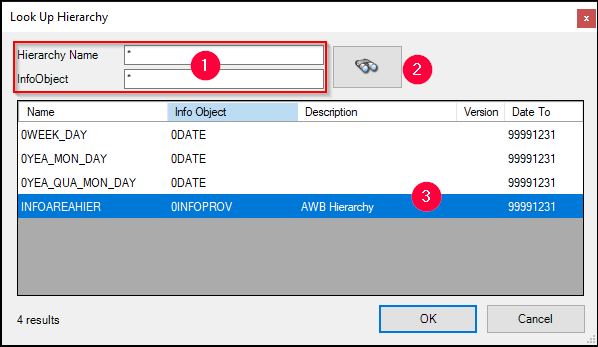
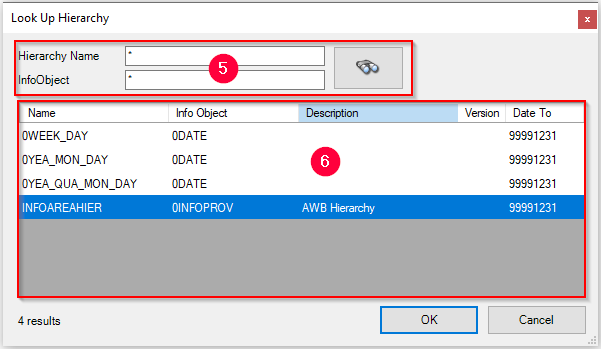
checked links, rewrite tasks, changed picture numbers

diff --git a/_includes/_content/en/bw-hierarchies/hierarchy-extraction-define.md b/_includes/_content/en/bw-hierarchies/hierarchy-extraction-define.md
@@ -1,32 +1,24 @@
 ### Defining a Hierarchy Extraction
-First steps, see [Defining a Table Extraction](../define-a-table-extraction).
+ Create a Hierarchy extraction, see [Defining a Table Extraction](../getting-started/define-a-table-extraction).
 
-### Creating an Extraction
-Choose from the two possibilities to create an extraction.
-
-#### 1. Defining a new Extraction
+### Defining a new Extraction
 1. In the main window of the **Xtract Universal Designer** click **[New]**.
-2. Field **Source** (1) states the SAP connection. Choose the SAP connection you created previously from the drop-down menu.
+2. Field **Source** (1) states the SAP connection. Select the SAP connection you created previously from the drop-down menu.
 ![Create-Hierarchy-Extraction](/img/content/xu/xu_select-bw-hierarchy.png){:class="img-responsive"}
 3. Enter a unique name for your extraction (2).
-4. Choose **BW Hierarchy** (3).
+4. Select **BW Hierarchy** (3).
 5. Click **[OK]** (4) to confirm.
 The window "Extract SAP BW Hierarchies" opens.
-6. To continue see next section task (2).
-
-#### 2. Using an existing Extraction
-1. In the main window of the **Xtract Universal Designer** click in the subsection on an existing Extraction to open.
-The window "Extract SAP BW Hierarchies" opens.
-2. Search for **Hierarchy Names** by using the (magnifying glass symbol).
+6. Search for **Hierarchy Names** by using the (magnifying glass symbol).
 ![Search Hierarchy Names](/img/content/xu/xu_search_hierarchy_name.png){:class="img-responsive"}
 The search form **Look Up Hierarchy** appears.
 ![Look Up Hierarchy](/img/content/xu/xu_look-up-hierarchy.png){:class="img-responsive"}
-3. By using wildcards (* as a placeholder) (1), a hierarchy can be searched (2).
-Search Results are displayed (3).
-4. Select one (3) and click **[OK]** to confirm.
-![Look Up Hierarchy](/img/content/xu/xu_search-hierarchy-name-filled.png){:class="img-responsive"}
-After making your selection, the component saves all relevant data needed for the extraction later on.
+3. Search for a particular hierarchy by name or InfoObject (5). You can use wildcards (*), if needed.<br>
+The search results appear in the preview section (6).
+4. Select an item and click **[OK]** to confirm.
+The window "Extract SAP BW Hierarchies" displayes the selcted values.<br>
+The component saves all relevant data for further processing.<br>
+The settings can be altered after creating extractions any time.<br>
 
 **Date To**<br>
-1. The defalut value for **Date To** is *99991231*. To change it, click on **[Run]**.
-2. Select **dateTo** in the list entry, tick to activate and override the value.
+The defalut value for **Date To** is *99991231*. To change the value, click **[Run]** and override the value.
